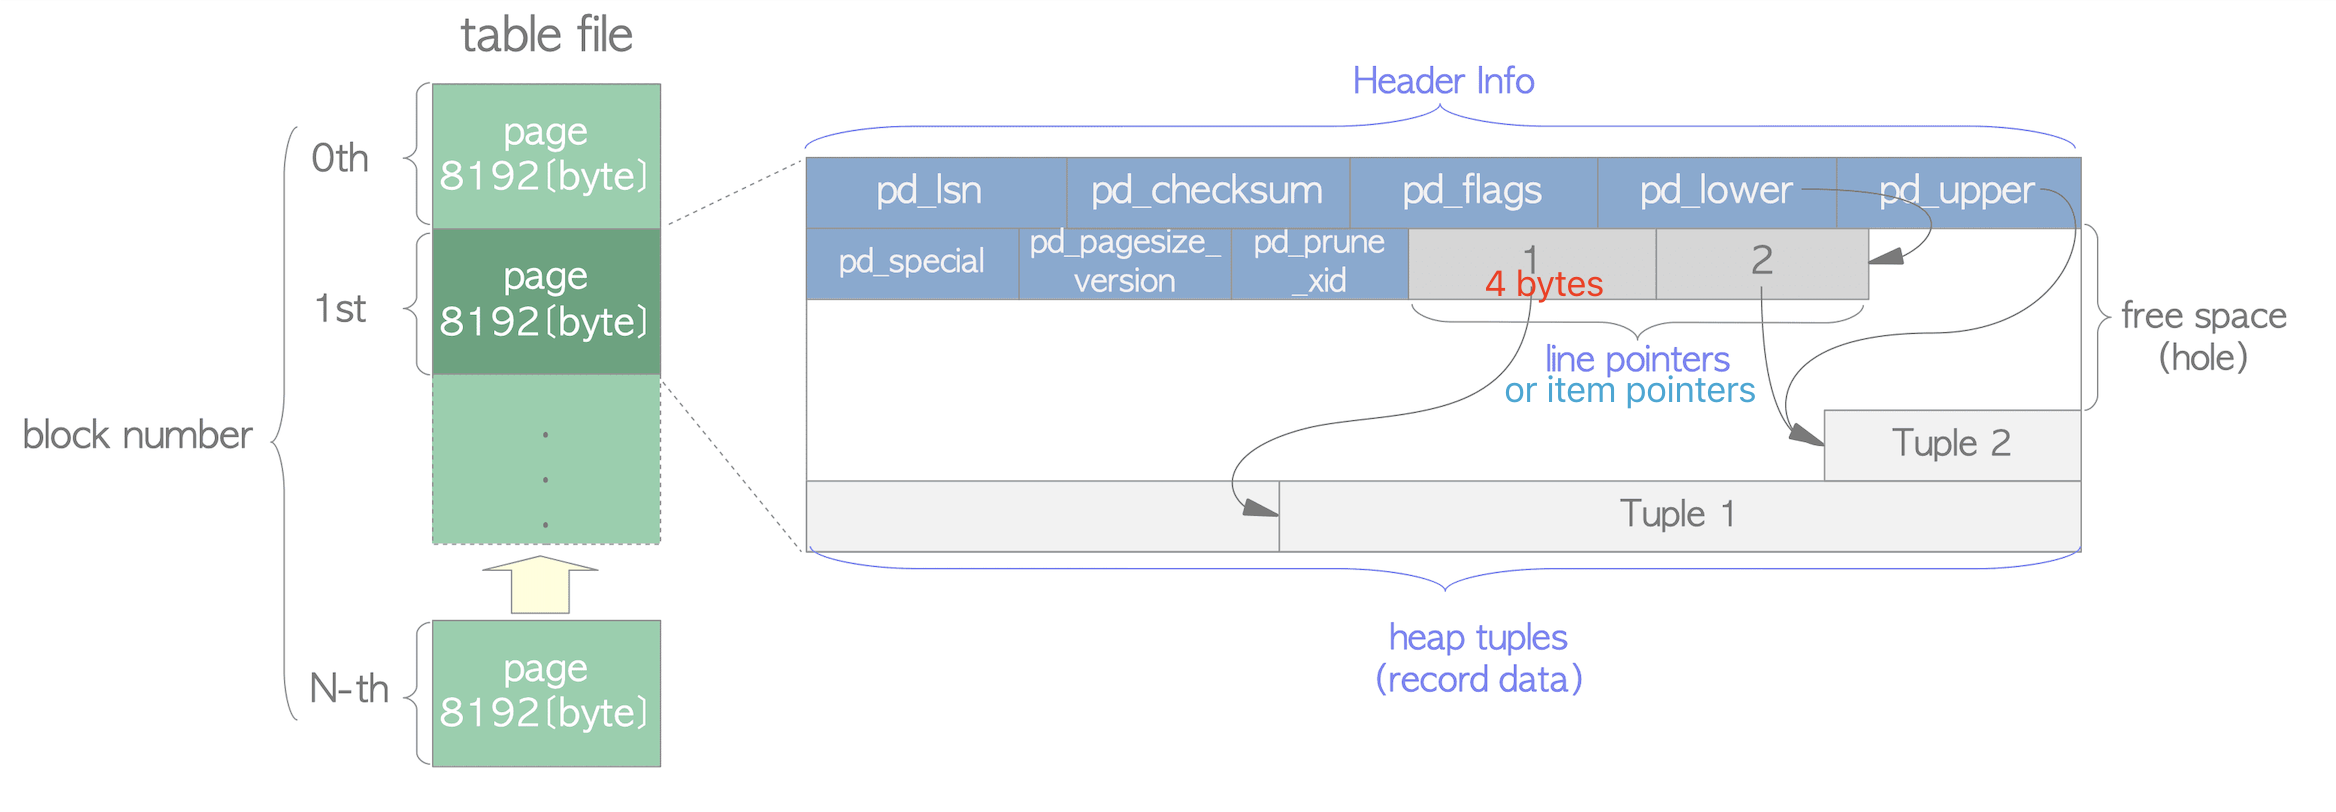
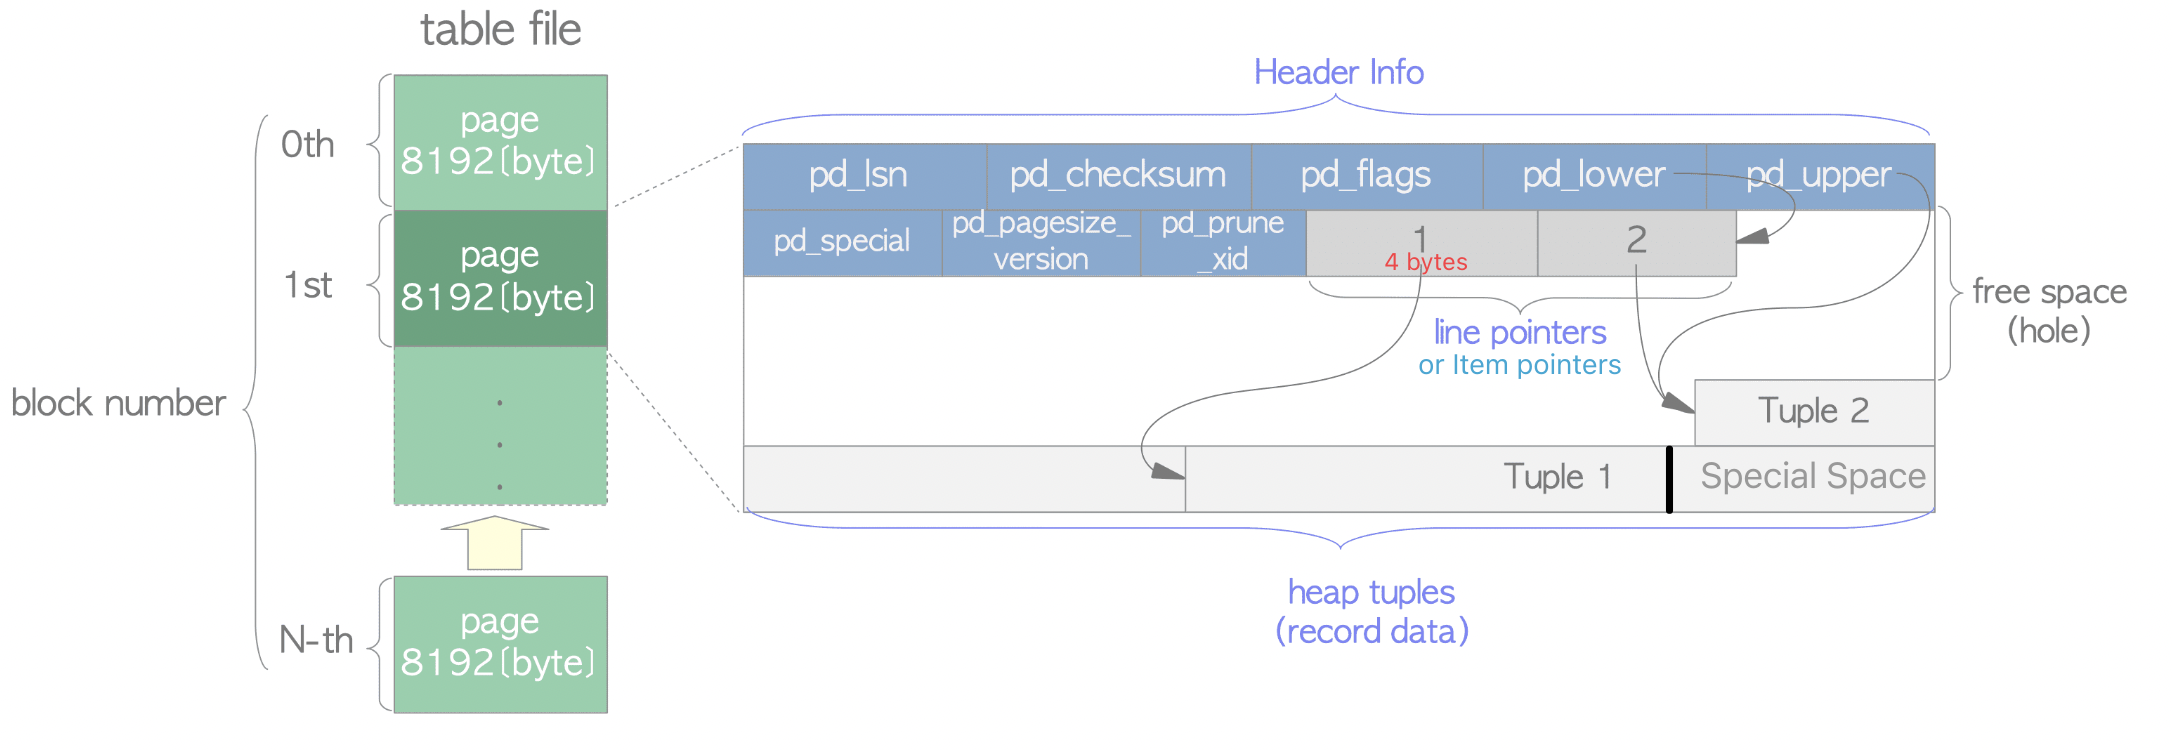
table structure

diff --git a/9_Database/postgreSQL/structure/table_structure.md b/9_Database/postgreSQL/structure/table_structure.md
@@ -15,6 +15,12 @@ page header total is 24 bytes:
 
 every item pointer points to a tuple, every item pointer is 4 bytes. Line pointers form a simple array, which plays the role of index to the tuples. Each index is numbered sequentially from 1, and called offset number. When a new tuple is added to the page, a new line pointer is also pushed onto the array to point to the new one.
 
+### Special Space (Special Section in page)
+
+`Special Space` which can contain anything the access method wishes to store. For example, b-tree indexes store links to the page's left and right siblings, as well as some other data relevant to the index structure. Ordinary tables do not use a special section at all (indicated by setting `pd_special` to equal the page size).
+
+`pd_special` is for indexes. In the page within tables, it points to the end of the page. (In the page within indexes, it points to the beginning of `Special Space` which is the data area held only by indexes and contains the particular data according to the kind of index types such as B-tree, GiST, GiN, etc.)
+
 ## Tuple Structure
 
 Heap tuples in table pages are classified as a usual data tuple and a TOAST tuple. This section describes only the usual tuple.
